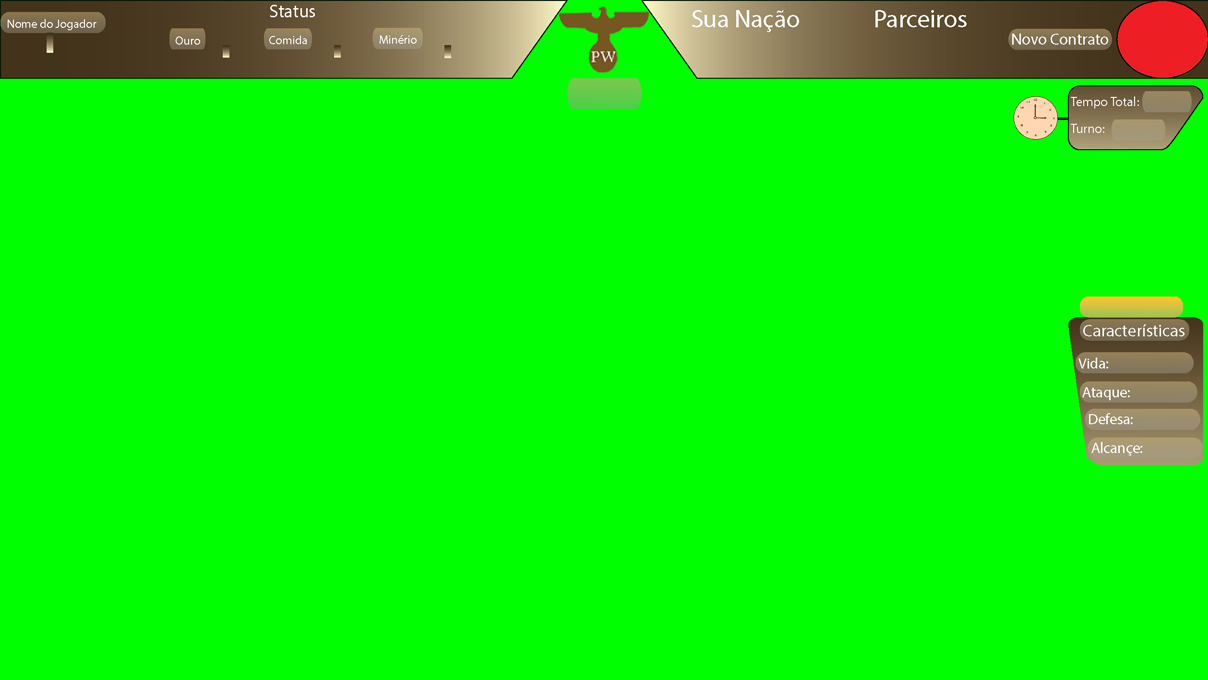
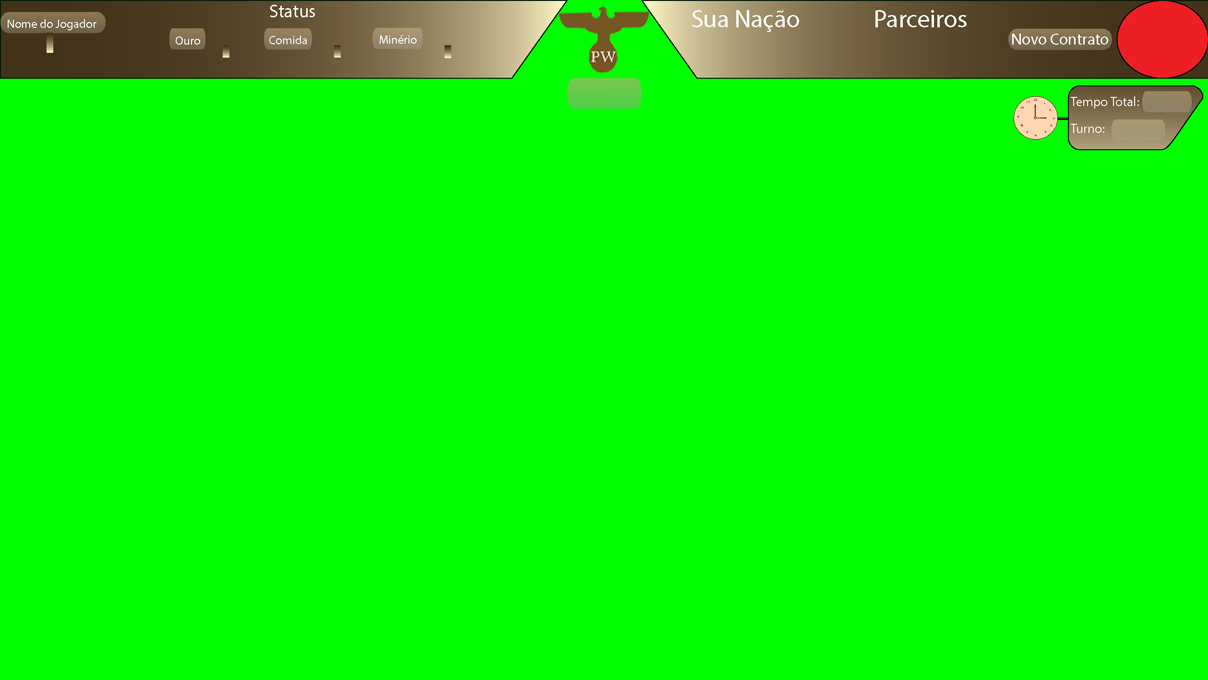
Arrumei o hud e os textos do hud da lateral

Changed region(s): [[0.8882, 0.4324, 1.0, 0.7103]]

diff --git a/source/GameFeatures/Jogar/Fase1/fase1.cpp b/source/GameFeatures/Jogar/Fase1/fase1.cpp
@@ -42,9 +42,9 @@ void fase1(SDL_Surface *screen,string qual_maquina){
                 blit_cima(china,screen);
                 vetor = get_Input();
                 string palavra = "Sua vez.";
-                red = 0;
-                green = 200;
-                blue = 200;
+                red = 255;
+                green = 0;
+                blue = 0;
                 desenha_texto(palavra,screen,200, 200, 60);
 
                 if(vetor->click == 1){
@@ -117,6 +117,7 @@ void fase1(SDL_Surface *screen,string qual_maquina){
                     string palavra = "Vez do outro jogador.";
                     blit_tela(screen,0);
                     desenha_texto(palavra,screen,200, 200, 60);
+                    SDL_Flip(screen);
                     char code_recv[100];
                     receber_msg(Sclient,code_recv);
                     cout<<"Recebi a msg: "<<code_recv<<endl;
@@ -130,14 +131,19 @@ void fase1(SDL_Surface *screen,string qual_maquina){
     else{
         blit_cima(eua,screen);
         minha_vez=0;
+        red = 0;
+        green = 200;
+        blue = 200;
 
         while(1){
 
         if(minha_vez==0){
+
             blit_cima(eua,screen);
             string palavra = "Vez do outro jogador.";
             blit_tela(screen,0);
             desenha_texto(palavra,screen,200, 200, 60);
+            SDL_Flip(screen);
             cout<<"Sou cliente zuero"<<endl;
             vetor = get_Input();
             char code_recv[100];

diff --git a/source/GameFeatures/Jogar/Fase1/carregar_fase1.cpp b/source/GameFeatures/Jogar/Fase1/carregar_fase1.cpp
@@ -92,7 +92,9 @@ void mapeia_hexagono(SDL_Surface *screen){
 SDL_Surface *sem_malha;
 SDL_Surface *com_malha;
 SDL_Surface *hud;
-
+SDL_Surface *hud2;
+int x_painel = 977;
+int y_painel = 236;
 void carregar_fase1(SDL_Surface *screen, string pais_serv,string pais_client){
 
 
@@ -116,6 +118,10 @@ void carregar_fase1(SDL_Surface *screen, string pais_serv,string pais_client){
     caminho = "source/GameFeatures/Jogar/Fase1/images/FundoHUD.png";
     hud = load_Image(caminho, screen);
     BlitImage(screen, hud, 0, 0);
+
+    caminho = "source/GameFeatures/Jogar/Fase1/images/painel_status.png";
+    hud2 = load_Image(caminho, screen);
+    //BlitImage(screen, hud2, 977, 236);
 
     mapeia_hexagono(screen);
 

diff --git a/source/GameFeatures/Jogar/Fase1/carrega_unidades.cpp b/source/GameFeatures/Jogar/Fase1/carrega_unidades.cpp
@@ -287,12 +287,12 @@ void blit_lateral(Unidade *unidade,SDL_Surface *screen){
     atk = convertInt(unidade->atk);
     def = convertInt(unidade->def);
     alcance = convertInt(unidade->alcance);
-
+    BlitImage(screen,hud2,977,236); //Painel de status
     BlitImage(screen,unidade->imagem_lateral,1100,230);
-    desenha_texto(vida,screen,1100,300,10);
-    desenha_texto(atk,screen,1100,320,10);
-    desenha_texto(def,screen,1100,340,10);
-    desenha_texto(alcance,screen,1100,360,10);
+    desenha_texto(vida,screen,1130 ,350,20);
+    desenha_texto(atk,screen,1135,380,20);
+    desenha_texto(def,screen,1140,410,20);
+    desenha_texto(alcance,screen,1145,440,20);
     SDL_Flip(screen);
 
 

diff --git a/include/gamefeatures.h b/include/gamefeatures.h
@@ -69,6 +69,7 @@ extern TCPsocket Cserver;
 extern char texto_global[100];
 extern int qual_vez;
 extern int red, green, blue;
+extern SDL_Surface *hud2;
 
 extern void desenha_texto(string texto, SDL_Surface* dst, int x, int y, int size);
 extern void load_menu(SDL_Surface *screen);
